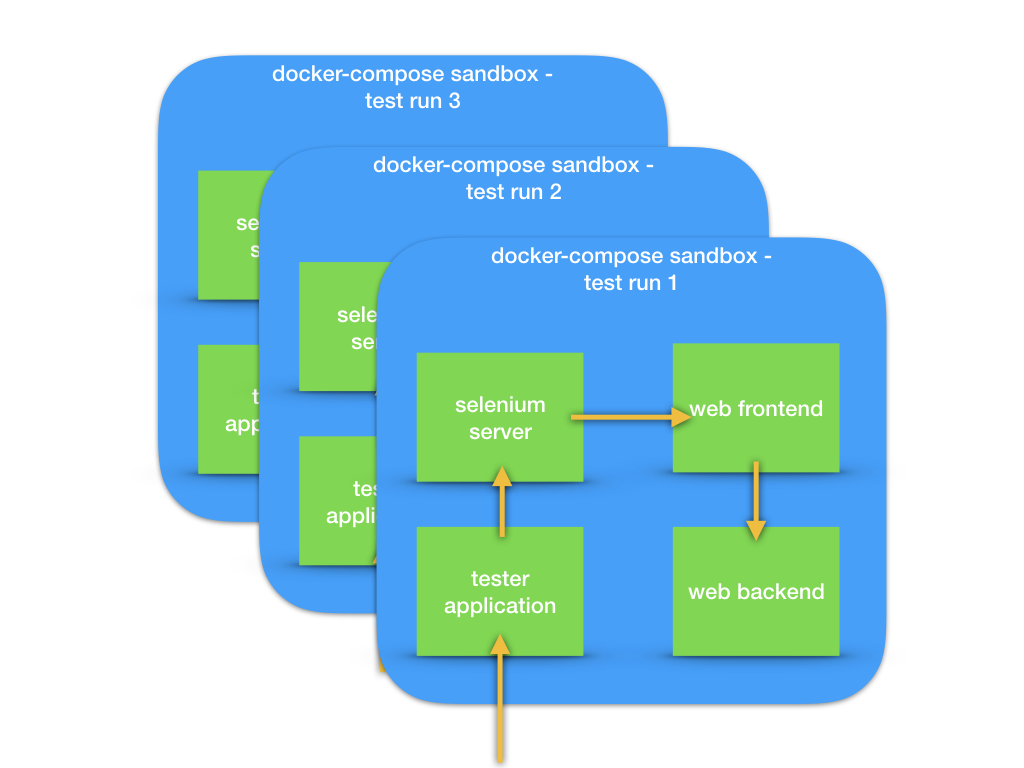
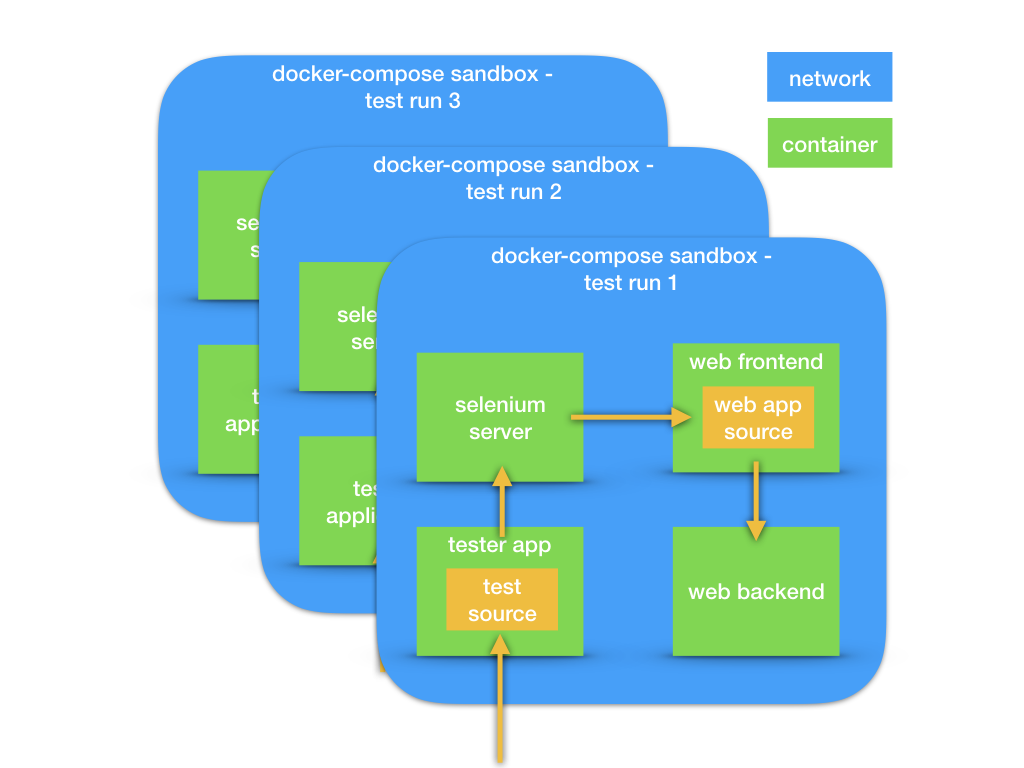
update readme

Changed region(s): [[0.75, 0.0625, 0.875, 0.2188], [0.6562, 0.4375, 0.8125, 0.5938], [0.4375, 0.6875, 0.5625, 0.8438]]

diff --git a/README.md b/README.md
@@ -53,17 +53,9 @@ Instead of relying on shared, permanent services, like a corp wide Selenium serv
 
 This all will be encapsulated in a docker-compose project, which serves as a sandbox, that wraps each test environments. This also lets the components to always know about each other without extra configuration effort. For example the test application can always access Selenium as `http://selenium` while the Selenium service can always access the website as `http://web`.
 
-
-### Okay but...
-isn't this to rigid
-
-### On the contrary
-Docker-compose and its overriding process allows for a local development environment that can
+![img](https://raw.githubusercontent.com/jaystack/e2e_box/master/content/images.001.png)
 
 
-## Implementation details
-
-###
 
 
 
